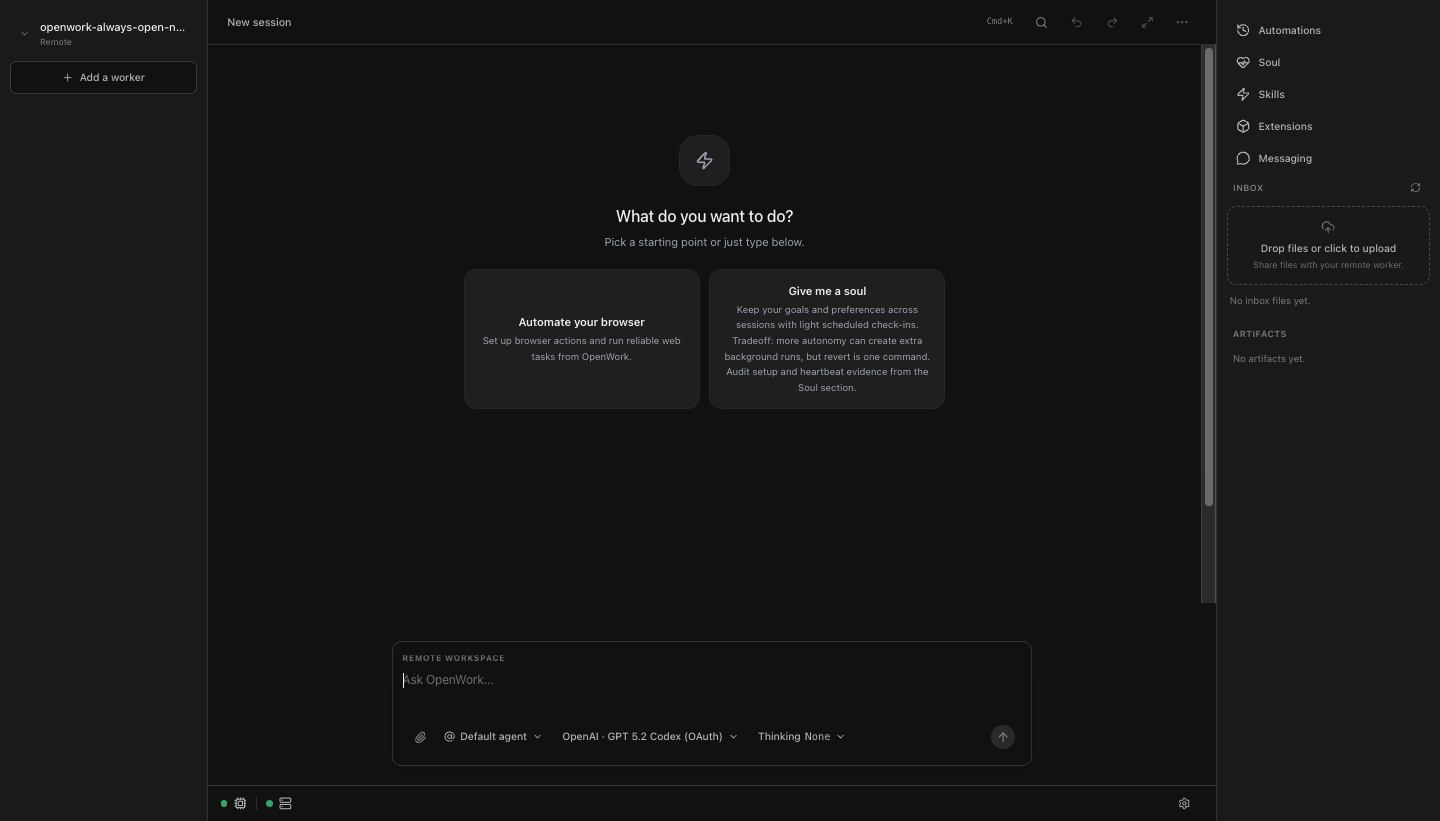
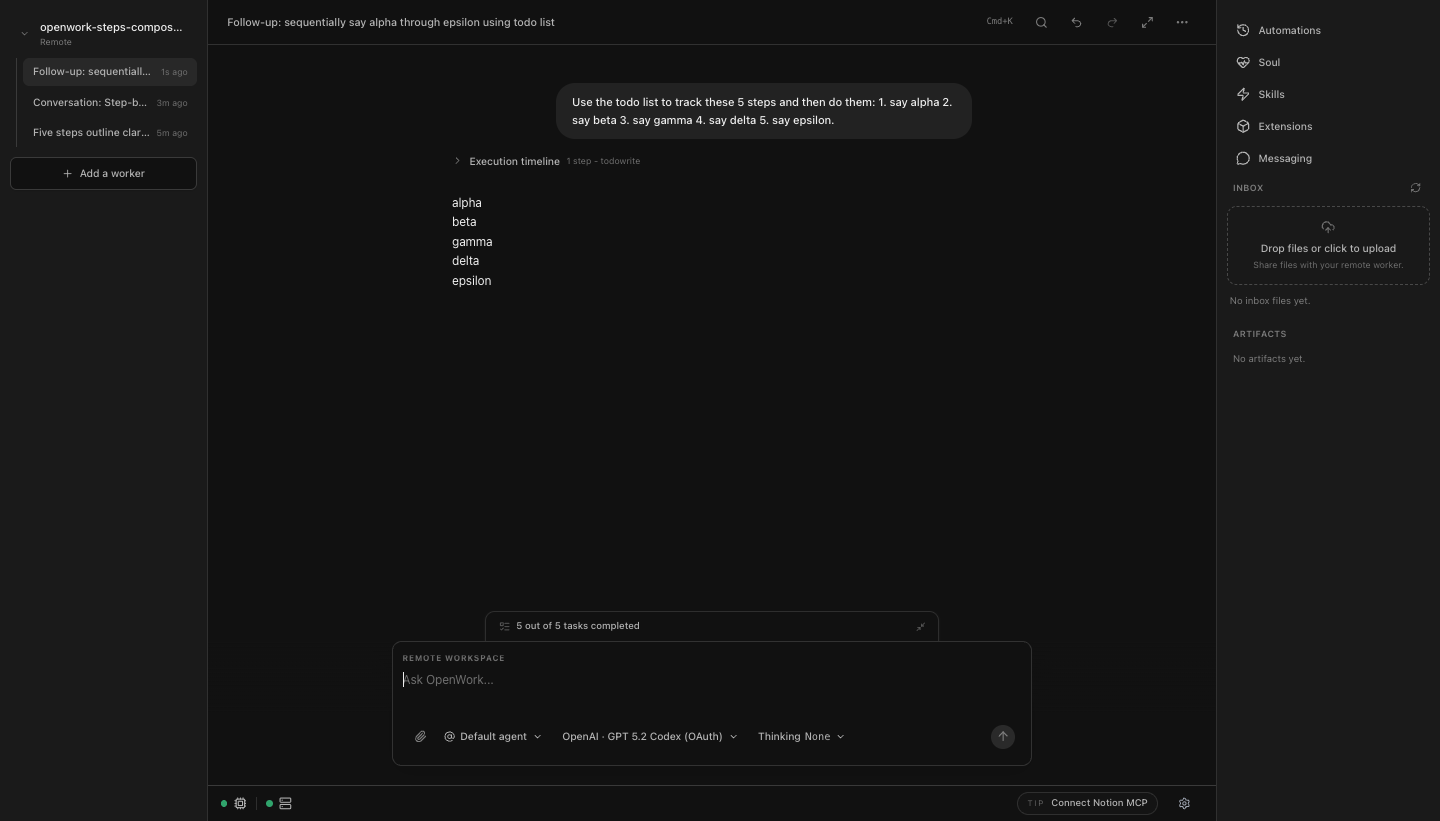
docs(pr): refresh steps composer proof

diff --git a/packages/app/pr/steps-composer-docked.md b/packages/app/pr/steps-composer-docked.md
@@ -19,4 +19,13 @@
 
 - `packages/app/pr/screenshots/steps-composer-docked.png`
 
-Note: the screenshot was captured from the running web shell after the Docker + local headless startup paths both hit existing environment/auth blockers, so it demonstrates the corrected docked placement rather than a full server-backed session run.
+## Proof prompt
+
+- Prompt used in the proof capture: `Use the todo list to track these 5 steps and then do them: 1. say alpha 2. say beta 3. say gamma 4. say delta 5. say epsilon.`
+- Result: OpenWork rendered the task/steps strip (`5 out of 5 tasks completed`) directly above the composer with no floating gap.
+
+## Proof setup
+
+- Started `opencode serve` with explicit basic auth.
+- Started `packages/server/dist/bin/openwork-server` directly against that OpenCode instance.
+- Started Vite with `VITE_OPENWORK_URL` + `VITE_OPENWORK_TOKEN` so the web app could connect to the proof server and capture a real session screenshot.
